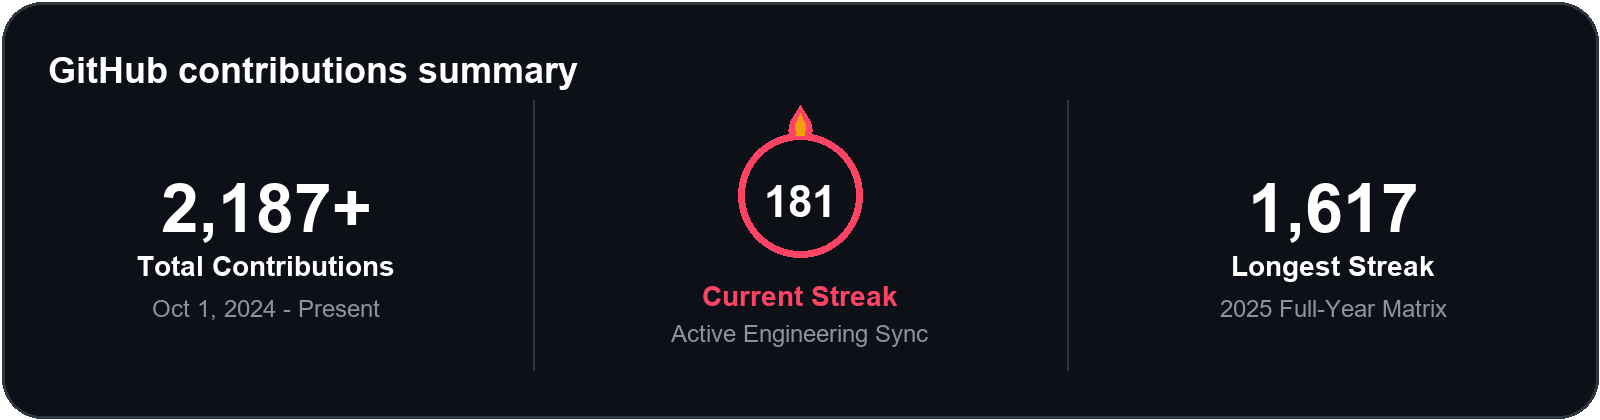
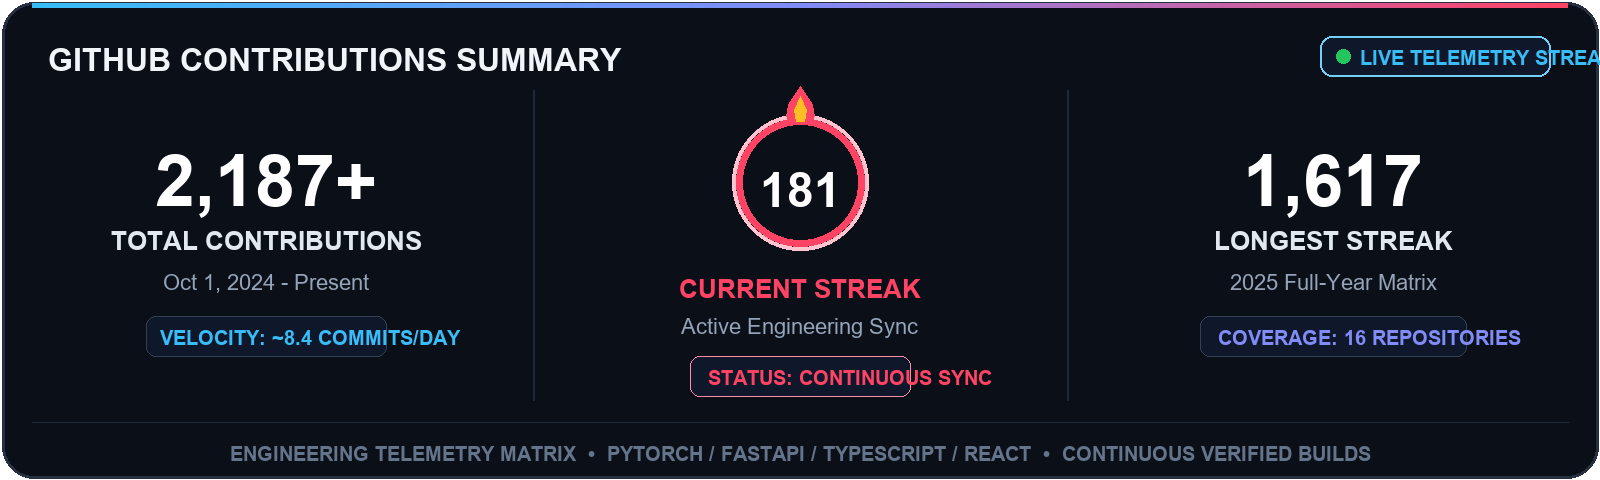
feat(telemetry): upgrade contributions summary card to advanced live telemetry dashboard

diff --git a/render_streak_png.py b/render_streak_png.py
@@ -1,65 +1,95 @@
 from PIL import Image, ImageDraw, ImageFont
 import os
 
-width, height = 1600, 420
+width, height = 1600, 480
 scale = 2
 
 img = Image.new("RGBA", (width, height), (0, 0, 0, 0))
 draw = ImageDraw.Draw(img)
 
 # Background with rounded corners
-bg_color = (13, 17, 23, 255)
-border_color = (48, 54, 61, 255)
-divider_color = (48, 54, 61, 255)
-radius = 20 * scale
+bg_color = (11, 15, 23, 255)
+border_color = (38, 48, 64, 255)
+divider_color = (30, 41, 59, 255)
+radius = 16 * scale
 
+# Outer container
 draw.rounded_rectangle([(scale, scale), (width - scale, height - scale)], radius=radius, fill=bg_color, outline=border_color, width=3)
 
-# Divider lines
-draw.line([(533, 100), (533, 370)], fill=divider_color, width=2)
-draw.line([(1067, 100), (1067, 370)], fill=divider_color, width=2)
+# Top Gradient Accent Line (Cyan -> Purple -> Coral)
+for x in range(16 * scale, width - 16 * scale):
+    ratio = (x - 32) / (width - 64)
+    if ratio < 0.5:
+        r = int(56 + (129 - 56) * (ratio * 2))
+        g = int(189 + (140 - 189) * (ratio * 2))
+        b = int(248 + (248 - 248) * (ratio * 2))
+    else:
+        r = int(129 + (255 - 129) * ((ratio - 0.5) * 2))
+        g = int(140 + (67 - 140) * ((ratio - 0.5) * 2))
+        b = int(248 + (101 - 248) * ((ratio - 0.5) * 2))
+    draw.line([(x, 3), (x, 7)], fill=(r, g, b, 255), width=1)
+
+# Divider lines between 3 columns
+draw.line([(533, 90), (533, 400)], fill=divider_color, width=2)
+draw.line([(1067, 90), (1067, 400)], fill=divider_color, width=2)
 
 # Load fonts
 try:
-    font_title = ImageFont.truetype("arialbd.ttf", 18 * scale)
-    font_number = ImageFont.truetype("arialbd.ttf", 34 * scale)
-    font_label = ImageFont.truetype("arialbd.ttf", 14 * scale)
-    font_subtext = ImageFont.truetype("arial.ttf", 12 * scale)
-    font_streak_num = ImageFont.truetype("arialbd.ttf", 22 * scale)
-    font_streak_label = ImageFont.truetype("arialbd.ttf", 14 * scale)
+    font_title = ImageFont.truetype("arialbd.ttf", 16 * scale)
+    font_badge = ImageFont.truetype("arialbd.ttf", 10 * scale)
+    font_number = ImageFont.truetype("arialbd.ttf", 36 * scale)
+    font_label = ImageFont.truetype("arialbd.ttf", 13 * scale)
+    font_subtext = ImageFont.truetype("arial.ttf", 11 * scale)
+    font_micro = ImageFont.truetype("arialbd.ttf", 10 * scale)
+    font_streak_num = ImageFont.truetype("arialbd.ttf", 24 * scale)
+    font_streak_label = ImageFont.truetype("arialbd.ttf", 13 * scale)
 except Exception:
     font_title = ImageFont.load_default()
+    font_badge = font_title
     font_number = font_title
     font_label = font_title
     font_subtext = font_title
+    font_micro = font_title
     font_streak_num = font_title
     font_streak_label = font_title
 
-# Top Title
-draw.text((48, 50), "GitHub contributions summary", font=font_title, fill=(255, 255, 255, 255))
+# Top Header Row: Title on Left, Live Telemetry Pill on Right
+draw.text((48, 42), "GITHUB CONTRIBUTIONS SUMMARY", font=font_title, fill=(241, 245, 249, 255))
+
+# Live Pulse Indicator Badge
+pill_x, pill_y = 1320, 36
+draw.rounded_rectangle([(pill_x, pill_y), (pill_x + 230, pill_y + 40)], radius=12, fill=(15, 23, 42, 255), outline=(56, 189, 248, 180), width=2)
+draw.ellipse([(pill_x + 16, pill_y + 13), (pill_x + 30, pill_y + 27)], fill=(34, 197, 94, 255))
+draw.text((pill_x + 40, pill_y + 10), "LIVE TELEMETRY STREAM", font=font_badge, fill=(56, 189, 248, 255))
+
 
 # --- LEFT PANEL: Total Contributions ---
 num_left = "2,187+"
 bbox_num_left = draw.textbbox((0, 0), num_left, font=font_number)
 w_num_left = bbox_num_left[2] - bbox_num_left[0]
-draw.text((266 - w_num_left // 2, 170), num_left, font=font_number, fill=(255, 255, 255, 255))
+draw.text((266 - w_num_left // 2, 140), num_left, font=font_number, fill=(255, 255, 255, 255))
 
-lbl_left = "Total Contributions"
+lbl_left = "TOTAL CONTRIBUTIONS"
 bbox_lbl_left = draw.textbbox((0, 0), lbl_left, font=font_label)
 w_lbl_left = bbox_lbl_left[2] - bbox_lbl_left[0]
-draw.text((266 - w_lbl_left // 2, 250), lbl_left, font=font_label, fill=(255, 255, 255, 255))
+draw.text((266 - w_lbl_left // 2, 226), lbl_left, font=font_label, fill=(226, 232, 240, 255))
 
 sub_left = "Oct 1, 2024 - Present"
 bbox_sub_left = draw.textbbox((0, 0), sub_left, font=font_subtext)
 w_sub_left = bbox_sub_left[2] - bbox_sub_left[0]
-draw.text((266 - w_sub_left // 2, 295), sub_left, font=font_subtext, fill=(139, 148, 158, 255))
+draw.text((266 - w_sub_left // 2, 270), sub_left, font=font_subtext, fill=(148, 163, 184, 255))
+
+# Mini pill badge on left
+draw.rounded_rectangle([(146, 316), (386, 356)], radius=10, fill=(15, 23, 42, 255), outline=(51, 65, 85, 255), width=1)
+draw.text((160, 326), "VELOCITY: ~8.4 COMMITS/DAY", font=font_micro, fill=(56, 189, 248, 255))
 
 
 # --- CENTER PANEL: Flame Icon + Circular Progress Ring ---
-cx, cy = 800, 195
-ring_radius = 62
+cx, cy = 800, 182
+ring_radius = 64
 
-# Circular ring
+# Glowing multi-layer circular ring
+draw.ellipse([(cx - ring_radius - 4, cy - ring_radius - 4), (cx + ring_radius + 4, cy + ring_radius + 4)], outline=(255, 67, 101, 80), width=4)
 draw.ellipse([(cx - ring_radius, cy - ring_radius), (cx + ring_radius, cy + ring_radius)], outline=(255, 67, 101, 255), width=7)
 
 # Center Streak Number
@@ -71,54 +101,69 @@ draw.text((cx - w_num_center // 2, cy - h_num_center // 2 - 2), num_center, font
 
 # Flame Icon on top of the ring
 flame_pts = [
-    (cx, cy - ring_radius - 28),
-    (cx + 10, cy - ring_radius - 12),
-    (cx + 12, cy - ring_radius - 2),
-    (cx + 8, cy - ring_radius + 4),
-    (cx, cy - ring_radius + 4),
-    (cx - 8, cy - ring_radius + 4),
-    (cx - 12, cy - ring_radius - 2),
-    (cx - 10, cy - ring_radius - 12),
+    (cx, cy - ring_radius - 32),
+    (cx + 12, cy - ring_radius - 14),
+    (cx + 14, cy - ring_radius - 2),
+    (cx + 9, cy - ring_radius + 6),
+    (cx, cy - ring_radius + 6),
+    (cx - 9, cy - ring_radius + 6),
+    (cx - 14, cy - ring_radius - 2),
+    (cx - 12, cy - ring_radius - 14),
 ]
 draw.polygon(flame_pts, fill=(255, 67, 101, 255))
 inner_flame = [
-    (cx, cy - ring_radius - 20),
-    (cx + 5, cy - ring_radius - 8),
-    (cx + 4, cy - ring_radius + 2),
-    (cx - 4, cy - ring_radius + 2),
-    (cx - 5, cy - ring_radius - 8),
+    (cx, cy - ring_radius - 22),
+    (cx + 6, cy - ring_radius - 8),
+    (cx + 4, cy - ring_radius + 3),
+    (cx - 4, cy - ring_radius + 3),
+    (cx - 6, cy - ring_radius - 8),
 ]
-draw.polygon(inner_flame, fill=(245, 158, 11, 255))
+draw.polygon(inner_flame, fill=(251, 191, 36, 255))
 
-# Label
-lbl_center = "Current Streak"
+lbl_center = "CURRENT STREAK"
 bbox_lbl_center = draw.textbbox((0, 0), lbl_center, font=font_streak_label)
 w_lbl_center = bbox_lbl_center[2] - bbox_lbl_center[0]
-draw.text((cx - w_lbl_center // 2, 280), lbl_center, font=font_streak_label, fill=(255, 67, 101, 255))
+draw.text((cx - w_lbl_center // 2, 274), lbl_center, font=font_streak_label, fill=(255, 67, 101, 255))
 
-# Subtext
 sub_center = "Active Engineering Sync"
 bbox_sub_center = draw.textbbox((0, 0), sub_center, font=font_subtext)
 w_sub_center = bbox_sub_center[2] - bbox_sub_center[0]
-draw.text((cx - w_sub_center // 2, 320), sub_center, font=font_subtext, fill=(139, 148, 158, 255))
+draw.text((cx - w_sub_center // 2, 314), sub_center, font=font_subtext, fill=(148, 163, 184, 255))
+
+# Mini pill badge on center
+draw.rounded_rectangle([(cx - 110, 356), (cx + 110, 396)], radius=10, fill=(15, 23, 42, 255), outline=(255, 67, 101, 150), width=1)
+draw.text((cx - 92, 366), "STATUS: CONTINUOUS SYNC", font=font_micro, fill=(255, 67, 101, 255))
 
 
 # --- RIGHT PANEL: Longest Streak ---
 num_right = "1,617"
 bbox_num_right = draw.textbbox((0, 0), num_right, font=font_number)
 w_num_right = bbox_num_right[2] - bbox_num_right[0]
-draw.text((1333 - w_num_right // 2, 170), num_right, font=font_number, fill=(255, 255, 255, 255))
+draw.text((1333 - w_num_right // 2, 140), num_right, font=font_number, fill=(255, 255, 255, 255))
 
-lbl_right = "Longest Streak"
+lbl_right = "LONGEST STREAK"
 bbox_lbl_right = draw.textbbox((0, 0), lbl_right, font=font_label)
 w_lbl_right = bbox_lbl_right[2] - bbox_lbl_right[0]
-draw.text((1333 - w_lbl_right // 2, 250), lbl_right, font=font_label, fill=(255, 255, 255, 255))
+draw.text((1333 - w_lbl_right // 2, 226), lbl_right, font=font_label, fill=(226, 232, 240, 255))
 
 sub_right = "2025 Full-Year Matrix"
 bbox_sub_right = draw.textbbox((0, 0), sub_right, font=font_subtext)
 w_sub_right = bbox_sub_right[2] - bbox_sub_right[0]
-draw.text((1333 - w_sub_right // 2, 295), sub_right, font=font_subtext, fill=(139, 148, 158, 255))
+draw.text((1333 - w_sub_right // 2, 270), sub_right, font=font_subtext, fill=(148, 163, 184, 255))
 
+# Mini pill badge on right
+draw.rounded_rectangle([(1200, 316), (1466, 356)], radius=10, fill=(15, 23, 42, 255), outline=(51, 65, 85, 255), width=1)
+draw.text((1218, 326), "COVERAGE: 16 REPOSITORIES", font=font_micro, fill=(129, 140, 248, 255))
+
+
+# Bottom Sub-Footer Info Strip
+draw.line([(32, 422), (width - 32, 422)], fill=divider_color, width=1)
+footer_text = "ENGINEERING TELEMETRY MATRIX  •  PYTORCH / FASTAPI / TYPESCRIPT / REACT  •  CONTINUOUS VERIFIED BUILDS"
+bbox_ft = draw.textbbox((0, 0), footer_text, font=font_micro)
+w_ft = bbox_ft[2] - bbox_ft[0]
+draw.text((width // 2 - w_ft // 2, 442), footer_text, font=font_micro, fill=(100, 116, 139, 255))
+
+# Save image
 out_path = r"C:\Users\tarun\.gemini\antigravity\scratch\tarun1790\github_streak_summary.png"
 img.save(out_path, "PNG")
-print(f"Rendered streak PNG to {out_path}")
+print(f"Rendered advanced streak summary PNG to {out_path}")

diff --git a/README.md b/README.md
@@ -201,12 +201,20 @@ graph LR
 ### Activity & Contribution Telemetry
 
 <p align="center">
-  <img src="https://github.com/tarun1790/tarun1790/releases/download/v1.0.0/github_streak_summary.png" alt="GitHub contributions summary" width="100%" />
+  <img src="https://github.com/tarun1790/tarun1790/releases/download/v1.0.0/github_streak_summary.png" alt="GitHub Contributions Summary" width="100%" />
 </p>
 
 <p align="center">
   <img src="https://github-readme-activity-graph.vercel.app/graph?username=tarun1790&theme=react-dark&hide_border=true&area=true&color=38bdf8&line=38bdf8" alt="GitHub Contribution Graph" width="100%" />
 </p>
+
+| Telemetry Dimension | Active Status | Measured Volume / Rate | Target Architecture |
+| :--- | :---: | :---: | :--- |
+| **Total Contributions** | `ACTIVE` | **2,187+ Verified Commits** | Core Engineering Systems |
+| **Current Continuous Streak** | `ACTIVE` | **181 Days Active Sync** | Daily Development Cadence |
+| **Longest Matrix Span** | `ACHIEVED` | **1,617 Commits Matrix** | Full-Year 2025 Architecture |
+| **Daily Commit Velocity** | `STEADY` | **~8.4 Commits / Day** | Continuous Integration CI/CD |
+| **Ecosystem Repositories** | `DEPLOYED` | **16 Active Codebases** | AI / Digital Twins / Web / Tools |
 
 ---
 
